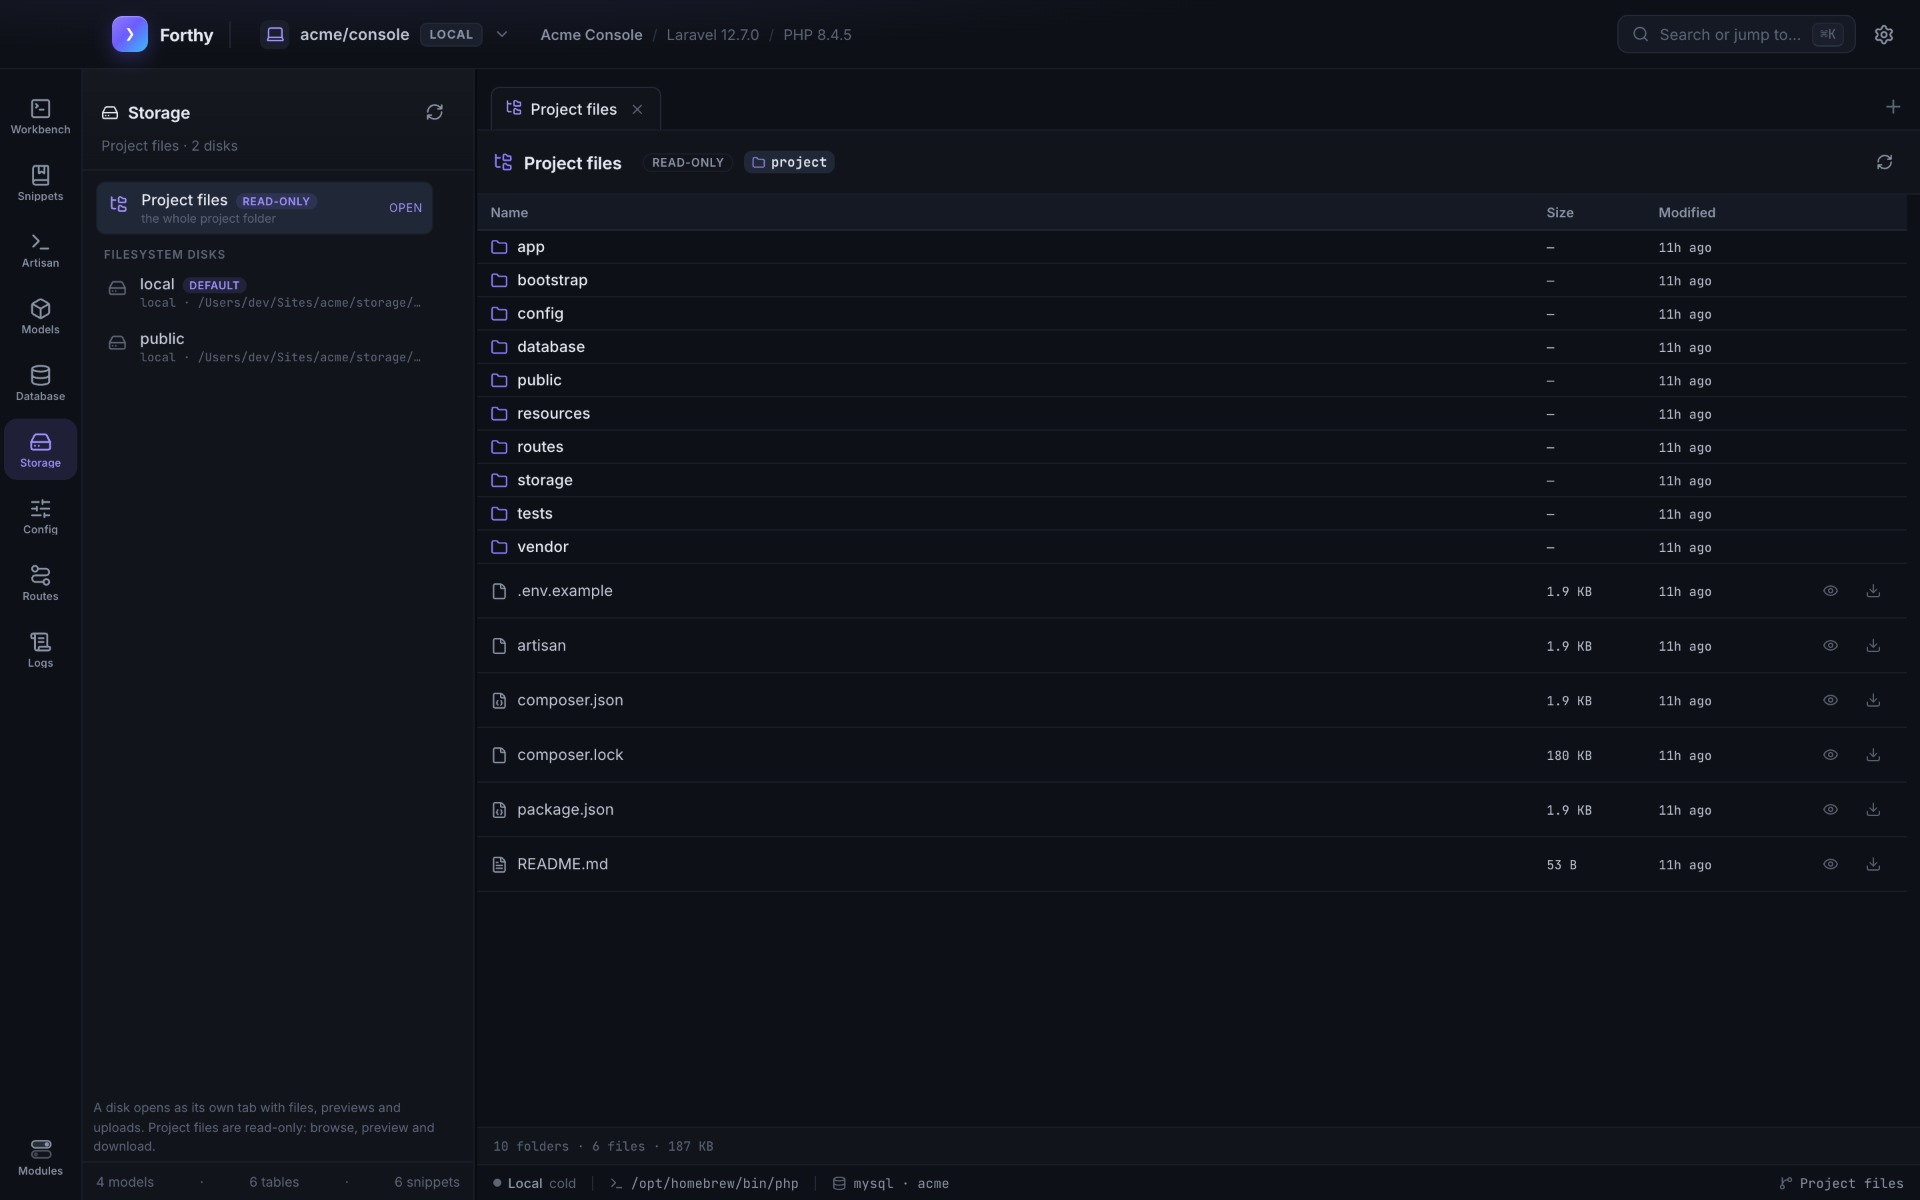
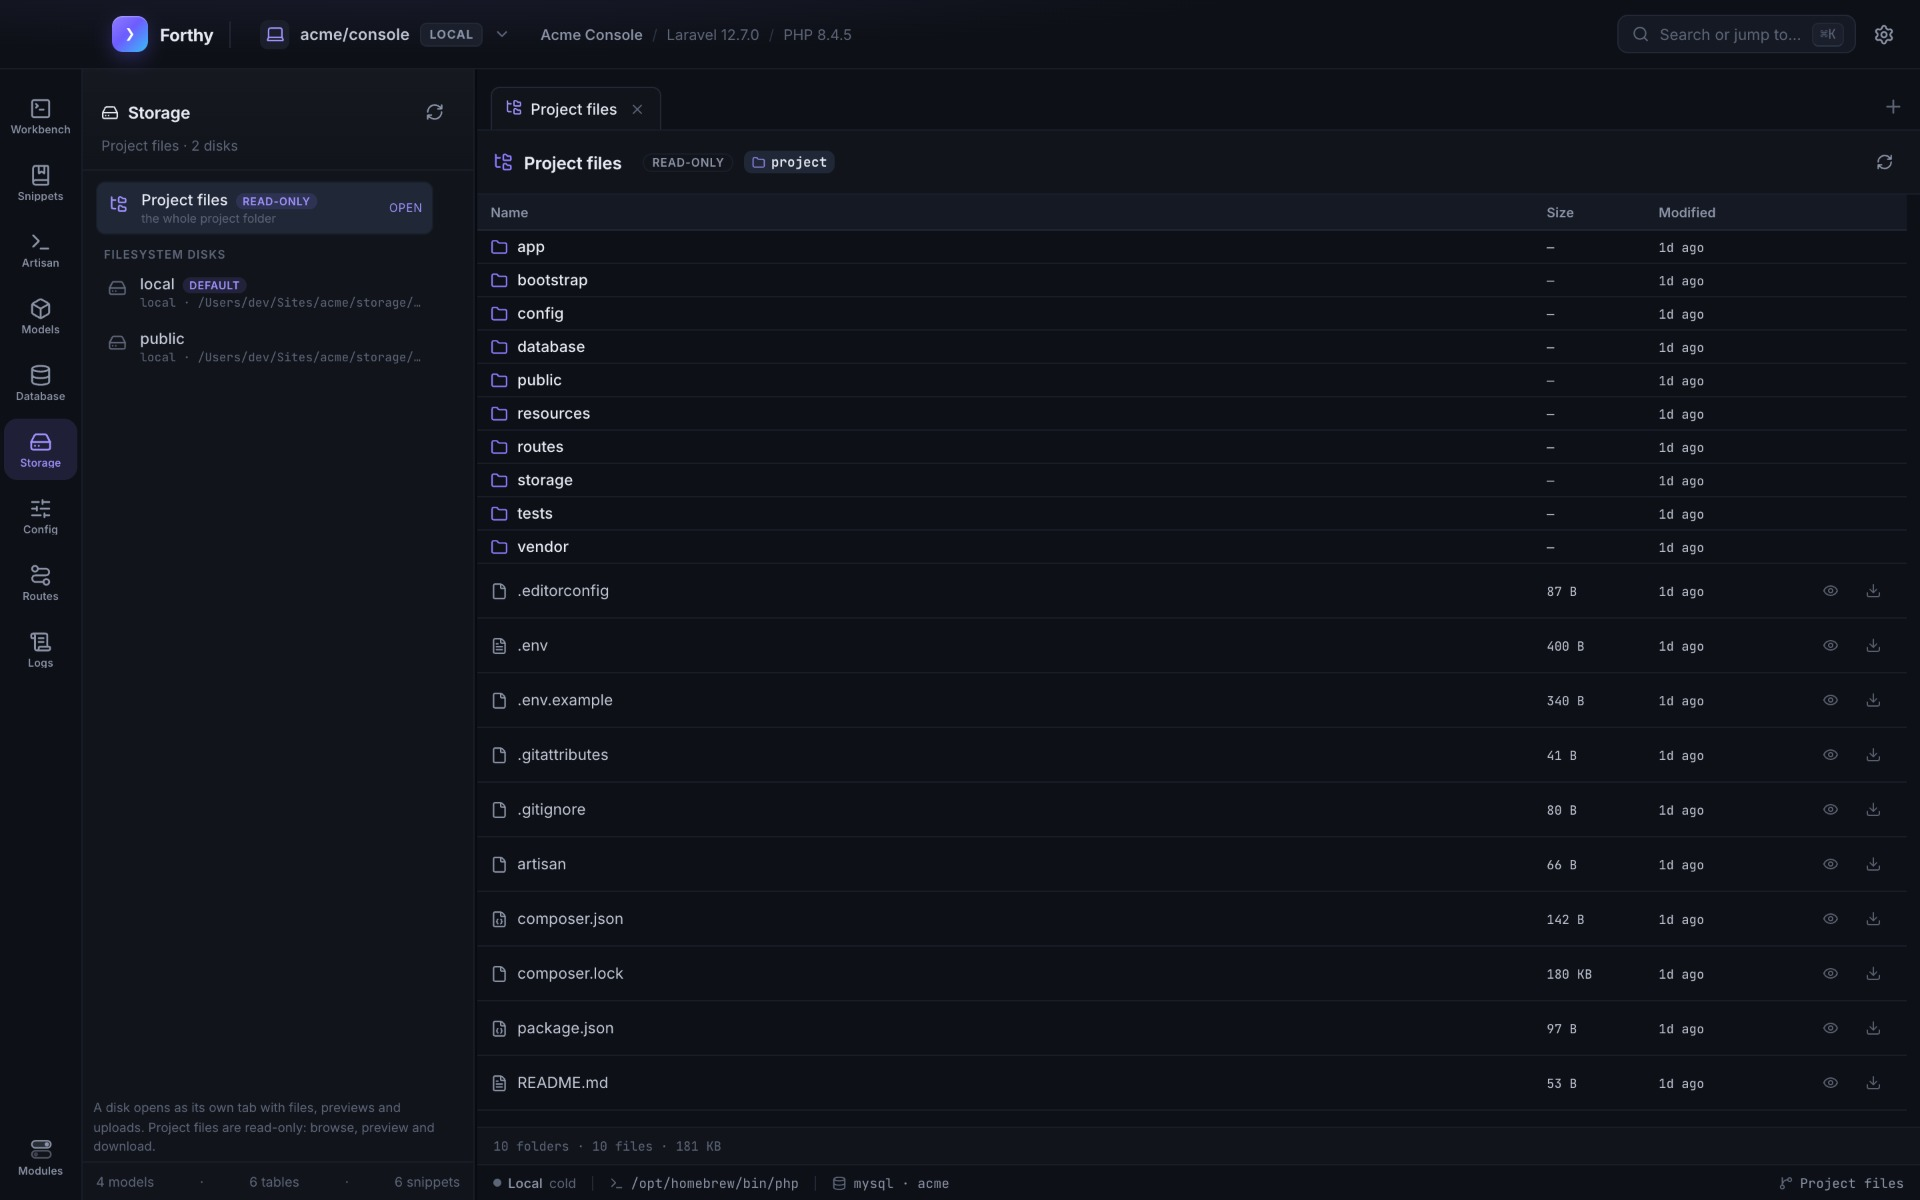
docs: release 0.12.17

diff --git a/site/index.html b/site/index.html
@@ -14,7 +14,7 @@
 
     <link rel="icon" href="favicon.svg" type="image/svg+xml" />
     <link rel="apple-touch-icon" href="apple-touch-icon.png" />
-    <link rel="stylesheet" href="styles.css?v=0.12.16" />
+    <link rel="stylesheet" href="styles.css?v=0.12.17" />
 
     <meta property="og:type" content="website" />
     <meta property="og:site_name" content="Forthy" />
@@ -36,7 +36,7 @@
     />
     <meta name="twitter:image" content="https://stealthpro.github.io/forthy-app/og.jpg" />
 
-    <script src="site.js?v=0.12.16" defer></script>
+    <script src="site.js?v=0.12.17" defer></script>
   </head>
   <body>
     <a class="skip-link" href="#main">Skip to content</a>
@@ -110,7 +110,7 @@
                 href="https://github.com/stealthpro/forthy-app/releases/latest/download/Forthy-macos-aarch64.zip"
               >
                 Download for macOS
-                <span class="button-note">v<span data-version>0.12.16</span> · arm64</span>
+                <span class="button-note">v<span data-version>0.12.17</span> · arm64</span>
               </a>
               <a class="button button-ghost" href="https://github.com/stealthpro/forthy-app">
                 View on GitHub
@@ -418,7 +418,8 @@
             <figcaption>
               Project files browse the whole project folder, read-only: one tab per project,
               folders first, every file previewed in the same modal and downloaded to this
-              Mac. Symbolic links and `.env` files stay hidden and nothing is ever written.
+              Mac — hidden entries such as `.env`, `.gitignore` and `.git` included.
+              Symbolic links are never followed and nothing is ever written.
             </figcaption>
           </figure>
 
@@ -510,7 +511,7 @@
               href="https://github.com/stealthpro/forthy-app/releases/latest/download/Forthy-macos-aarch64.zip"
             >
               Download Forthy
-              <span class="button-note">v<span data-version>0.12.16</span> · Apple Silicon</span>
+              <span class="button-note">v<span data-version>0.12.17</span> · Apple Silicon</span>
             </a>
             <p class="fine-print">
               <a href="https://github.com/stealthpro/forthy-app/releases">All releases</a> ·

diff --git a/README.md b/README.md
@@ -42,8 +42,8 @@ shasum -a 256 -c Forthy-macos-aarch64.zip.sha256
   and delete a file or a whole folder after a confirmation that counts what goes with it.
   `.gitignore`, `.env`-style placeholders and Laravel's other system files stay locked.
   **Project files** open the whole project folder read-only: preview and download any
-  source, config or route file, on this Mac or inside an SSH, Kubernetes or Docker
-  runtime.
+  source, config or route file — hidden ones like `.env` and `.gitignore` included — on
+  this Mac or inside an SSH, Kubernetes or Docker runtime.
 - **Workbench** — a connection overview of the real target and runtime, plus the
   project's git state: repository or not, the current branch (or the detached commit),
   the tracked upstream and ahead/behind, and staged, unstaged, untracked and conflicted
@@ -66,7 +66,8 @@ shasum -a 256 -c Forthy-macos-aarch64.zip.sha256
 - **Themes** — dark, light or follow the system.
 - **Updates** — checks the public release feed once an hour, then downloads and installs
   a new version only after you confirm it. Every archive is signature-checked first, and
-  **Check for Updates…** in the application menu runs the same check on demand.
+  **Check for Updates…** in the application menu runs the same check on demand. The restart
+  waits while a PHP run, a SQL query or an Artisan command is still going.
 - **Safety** — destructive code is flagged and confirmed before it runs; secrets are
   never written to disk, and the optional locks are checked by macOS without the app ever
   seeing the password.
@@ -106,9 +107,10 @@ deletes files or folders after a counted confirmation. Project system files
 ![CSV preview with search in the Storage modal](docs/screenshots/storage.jpg)
 
 Project files browse the whole project read-only, without the Laravel disks: one tab per
-project, the same preview modal and download, and no write action at all. Symbolic links
-are never followed and `.env` files stay hidden — the Workbench Environment modal is still
-their only viewer.
+project, the same preview modal and download, and no write action at all. Hidden entries
+such as `.env`, `.gitignore` and `.git` are ordinary rows, `.env` previews as plain text,
+and symbolic links are never followed. The Workbench Environment modal still masks secret
+values.
 
 ![Read-only project file manager](docs/screenshots/project.jpg)
 

diff --git a/CHANGELOG.md b/CHANGELOG.md
@@ -1,5 +1,25 @@
 # Changelog
 
+## 0.12.17 — 2026-11-22
+
+Hidden project files are visible in the read-only project browser, history stops opening
+duplicate tabs, and an update can no longer restart the app in the middle of a run.
+
+- **Hidden files are ordinary files** — **Project files** now shows the project as it is:
+  `.env`, `.env.local`, `.gitignore`, `.gitattributes`, `.editorconfig`, `.git` and every
+  other hidden entry are normal rows, previewed as plain read-only text and downloadable
+  like anything else. Symbolic links are still never listed or followed. The Workbench
+  Environment modal keeps its masked viewer for secret values.
+- **One run, one tab** — opening the same SQL run or Artisan run from history again
+  activates the tab that is already open instead of adding a second copy of it, including
+  after a restart.
+- **A history tab shows its result again** — after a restart or a reconnect, a tab opened
+  from history re-reads its run and fills the result grid or the console output, so it no
+  longer comes back empty.
+- **No restart while work is running** — **Restart and install** stays disabled while a PHP
+  run, a SQL query or a live Artisan console is going, and the dialog says why. It becomes
+  available again as soon as that work finishes or is stopped.
+
 ## 0.12.16 — 2026-11-21
 
 Storage can now browse the whole project folder, not only the application's disks.
